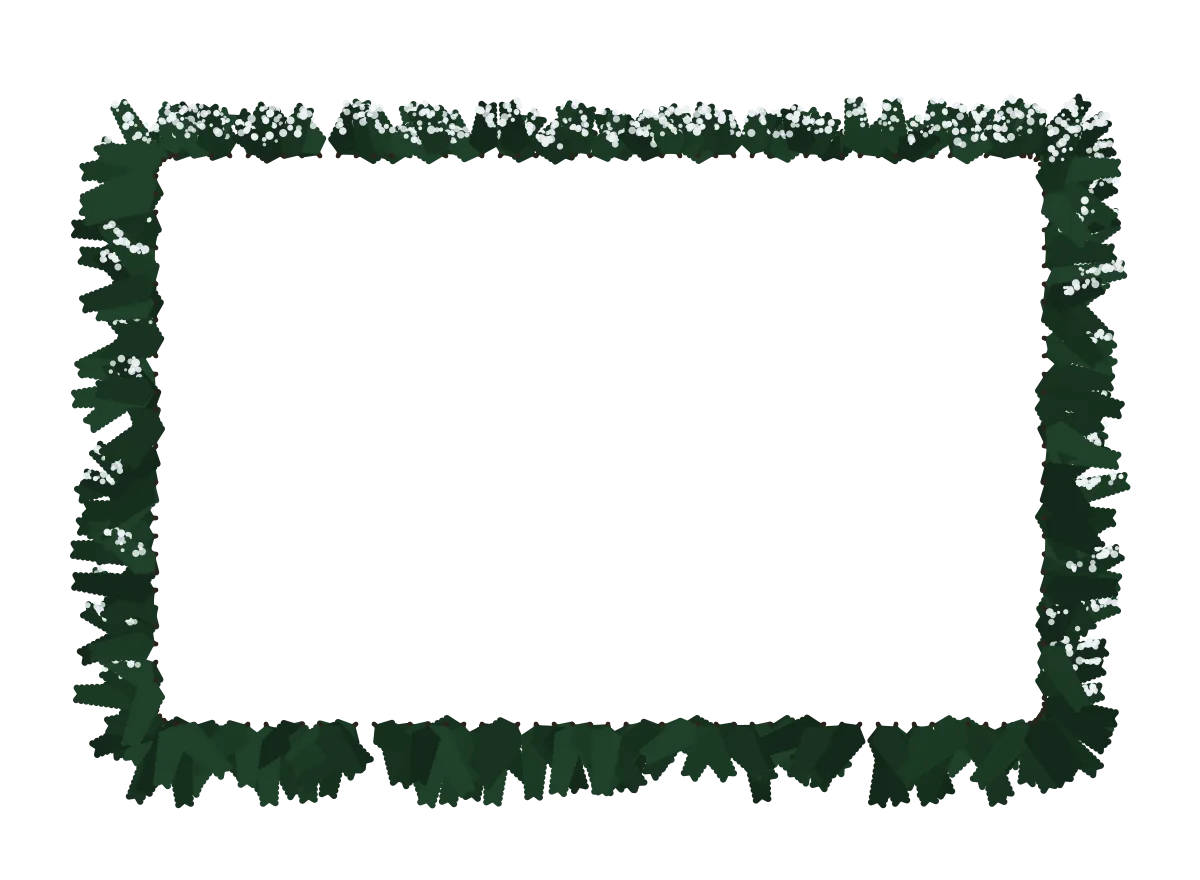
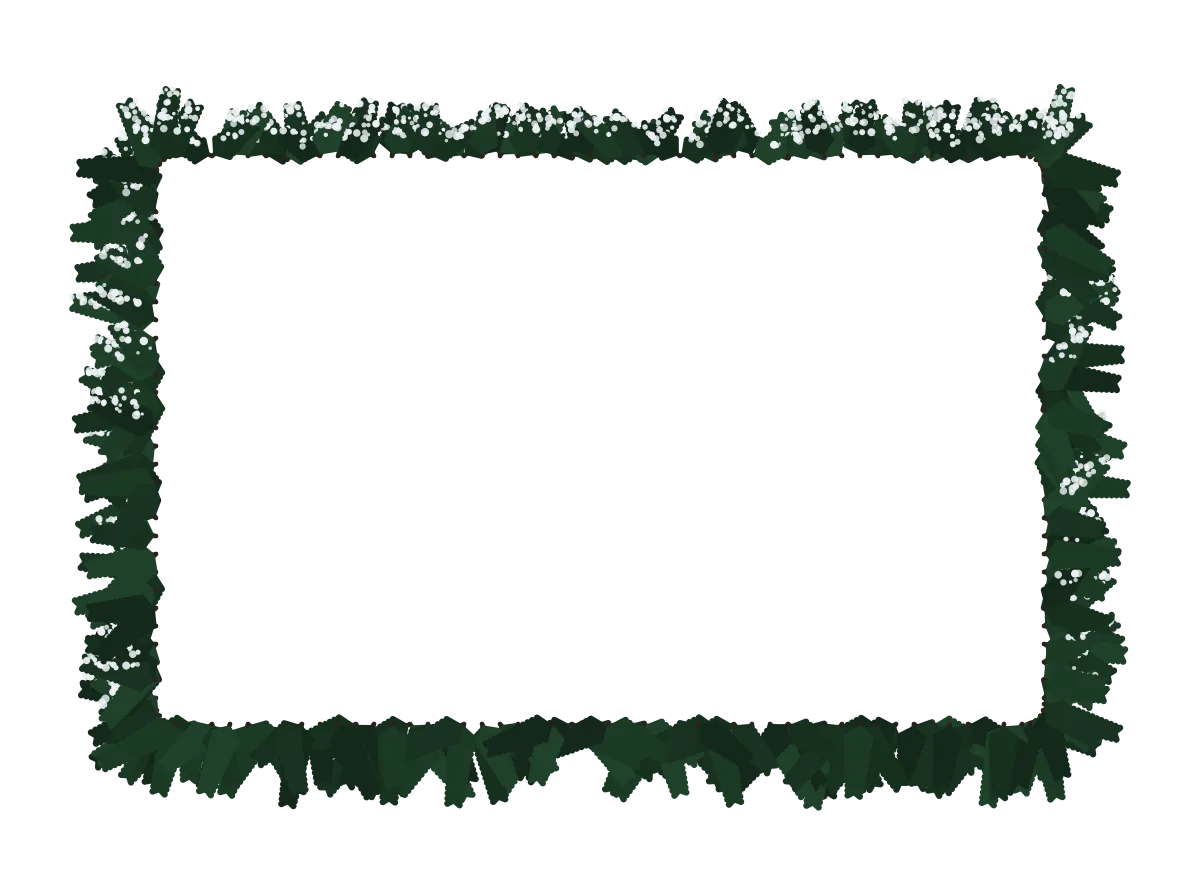
Julquiz: review fixes
Two-column leaderboards keep their pine bed on screen; each string of
lights gets its own gradient ids; the decor's tests sit next to their
files; the image script shuffles reproducibly (images rebuilt).

Claude-Session: https://claude.ai/code/session_01XP7kZbCfsFXr7BmuK4ueYM

Changed region(s): [[0.0617, 0.092, 0.9558, 0.9205], [0.1542, 0.7977, 0.2158, 0.8284], [0.8017, 0.7977, 0.8325, 0.8284]]

diff --git a/src/features/shared/julquiz/ChristmasLights.tsx b/src/features/shared/julquiz/ChristmasLights.tsx
@@ -1,3 +1,5 @@
+import { useId } from "react";
+
 // A string of coloured bulbs hanging in loops along the top of a screen (D75). Each bulb glows and
 // dims slowly on its own beat (`julquiz-bulb` in globals.css). Drawn in code rather than as an
 // image, as it is only a few shapes and stays sharp at any size; the glow is a soft gradient
@@ -17,6 +19,8 @@ function onLoop(x0: number, x1: number, t: number) {
 }
 
 export function ChristmasLights({ bulbs }: { bulbs: number }) {
+  // Each string its own gradient ids, as the hosts' page shows two TVs' strings at once.
+  const glowId = `julquiz-glow-${useId().replace(/[^a-zA-Z0-9_-]/g, "")}`;
   const loops = Math.max(1, Math.round(bulbs / BULBS_PER_LOOP));
   const width = bulbs * SPACING;
   const loopWidth = width / loops;
@@ -25,7 +29,7 @@ export function ChristmasLights({ bulbs }: { bulbs: number }) {
     <svg viewBox={`0 0 ${width} ${HEIGHT}`} className="block w-full" aria-hidden>
       <defs>
         {COLOURS.map((colour, index) => (
-          <radialGradient key={colour} id={`julquiz-glow-${index}`}>
+          <radialGradient key={colour} id={`${glowId}-${index}`}>
             <stop offset="0" stopColor={colour} stopOpacity="0.55" />
             <stop offset="1" stopColor={colour} stopOpacity="0" />
           </radialGradient>
@@ -46,7 +50,7 @@ export function ChristmasLights({ bulbs }: { bulbs: number }) {
           <g key={index} transform={`translate(${x.toFixed(1)} ${y.toFixed(1)})`}>
             <rect x="-3.5" y="0" width="7" height="6" rx="1.5" fill="#3b3340" />
             <g className="julquiz-bulb" style={{ animationDelay: `${delay.toFixed(1)}s` }}>
-              <circle cy="15" r="20" fill={`url(#julquiz-glow-${colourIndex})`} />
+              <circle cy="15" r="20" fill={`url(#${glowId}-${colourIndex})`} />
               <ellipse cy="15" rx="7" ry="11" fill={COLOURS[colourIndex]} />
               <ellipse cx="-2" cy="11" rx="2" ry="4" fill="#fff" opacity="0.45" />
             </g>

diff --git a/src/features/shared/julquiz/TvDecor.test.tsx b/src/features/shared/julquiz/TvDecor.test.tsx
@@ -1,8 +1,6 @@
 import { render, screen } from "@testing-library/react";
 import { describe, expect, it } from "vitest";
-import { PhoneDecor } from "./PhoneDecor";
 import { PineBed, TvDecor } from "./TvDecor";
-import { treeTileHeight } from "./treePattern";
 
 const corners = (container: HTMLElement) => container.querySelectorAll('img[src="/julquiz/pine-corner.webp"]');
 
@@ -27,21 +25,5 @@ describe("PineBed", () => {
     render(<PineBed />);
     expect(screen.getByTestId("julquiz-pine-bed")).toHaveClass("julquiz-pine-bed");
     expect(screen.getByTestId("julquiz-pine-bed")).toHaveAttribute("aria-hidden", "true");
-  });
-});
-
-describe("PhoneDecor", () => {
-  it("fixes the pattern, a shorter string of lights and small corners behind the page", () => {
-    const { container } = render(<PhoneDecor />);
-    expect(screen.getByTestId("julquiz-decor")).toHaveClass("fixed");
-    expect(container.querySelectorAll(".julquiz-bulb")).toHaveLength(8);
-    expect(corners(container)).toHaveLength(2);
-  });
-});
-
-describe("treeTileHeight", () => {
-  it("keeps the tile's shape at any width", () => {
-    expect(treeTileHeight(96)).toBe(68);
-    expect(treeTileHeight(48)).toBe(34);
   });
 });

diff --git a/src/features/shared/julquiz/ChristmasLights.test.tsx b/src/features/shared/julquiz/ChristmasLights.test.tsx
@@ -16,6 +16,19 @@ describe("ChristmasLights", () => {
     expect(new Set(delays).size).toBe(8);
   });
 
+  it("gives each string its own glow, so two on one page don't share ids", () => {
+    const { container } = render(
+      <>
+        <ChristmasLights bulbs={4} />
+        <ChristmasLights bulbs={4} />
+      </>,
+    );
+    const ids = [...container.querySelectorAll("radialGradient")].map((gradient) => gradient.id);
+    expect(new Set(ids).size).toBe(ids.length);
+    const glow = container.querySelectorAll("svg")[1].querySelector("circle")!.getAttribute("fill")!;
+    expect(container.querySelectorAll("svg")[1].querySelector(`radialGradient[id="${glow.slice(5, -1)}"]`)).not.toBeNull();
+  });
+
   it("keeps a single loop for a short string", () => {
     const { container } = render(<ChristmasLights bulbs={2} />);
     expect(container.querySelectorAll("path")).toHaveLength(1);

diff --git a/src/features/shared/tvScreens/LeaderboardScreen.tsx b/src/features/shared/tvScreens/LeaderboardScreen.tsx
@@ -19,7 +19,7 @@ export function LeaderboardScreen({ title, scores, isChristmas = false }: { titl
       {scores.length === 0 ? (
         <p className="text-[2cqw] text-muted-foreground">Inga lag har anmält sig.</p>
       ) : (
-        <div className={isChristmas ? `relative mx-auto rounded-[1.6cqw] bg-background p-[1.6cqw] ${columns === "grid-cols-1" ? "w-[62cqw]" : "w-full"}` : "contents"}>
+        <div className={isChristmas ? `relative mx-auto rounded-[1.6cqw] bg-background p-[1.6cqw] ${columns === "grid-cols-1" ? "w-[62cqw]" : "w-[82cqw]"}` : "contents"}>
           {isChristmas && <PineBed />}
           <ol className={`grid grid-flow-col gap-x-[4cqw] gap-y-[1cqw] ${columns}`} style={{ gridTemplateRows: `repeat(${Math.min(scores.length, ONE_COLUMN_MAX)}, auto)` }}>
             {scores.map((team) => (

diff --git a/src/features/shared/julquiz/PhoneDecor.test.tsx b/src/features/shared/julquiz/PhoneDecor.test.tsx
@@ -1,0 +1,14 @@
+import { render, screen } from "@testing-library/react";
+import { describe, expect, it } from "vitest";
+import { PhoneDecor } from "./PhoneDecor";
+
+const corners = (container: HTMLElement) => container.querySelectorAll('img[src="/julquiz/pine-corner.webp"]');
+
+describe("PhoneDecor", () => {
+  it("fixes the pattern, a shorter string of lights and small corners behind the page", () => {
+    const { container } = render(<PhoneDecor />);
+    expect(screen.getByTestId("julquiz-decor")).toHaveClass("fixed");
+    expect(container.querySelectorAll(".julquiz-bulb")).toHaveLength(8);
+    expect(corners(container)).toHaveLength(2);
+  });
+});

diff --git a/src/features/shared/julquiz/treePattern.test.ts b/src/features/shared/julquiz/treePattern.test.ts
@@ -1,0 +1,17 @@
+import { describe, expect, it } from "vitest";
+import { treePatternImage, treeTileHeight } from "./treePattern";
+
+describe("treeTileHeight", () => {
+  it("keeps the tile's shape at any width", () => {
+    expect(treeTileHeight(96)).toBe(68);
+    expect(treeTileHeight(48)).toBe(34);
+  });
+});
+
+describe("treePatternImage", () => {
+  it("is one tile of two trees, the second upside down", () => {
+    const svg = decodeURIComponent(treePatternImage);
+    expect(svg.match(/<path/g)).toHaveLength(2);
+    expect(svg).toContain("rotate(180");
+  });
+});
